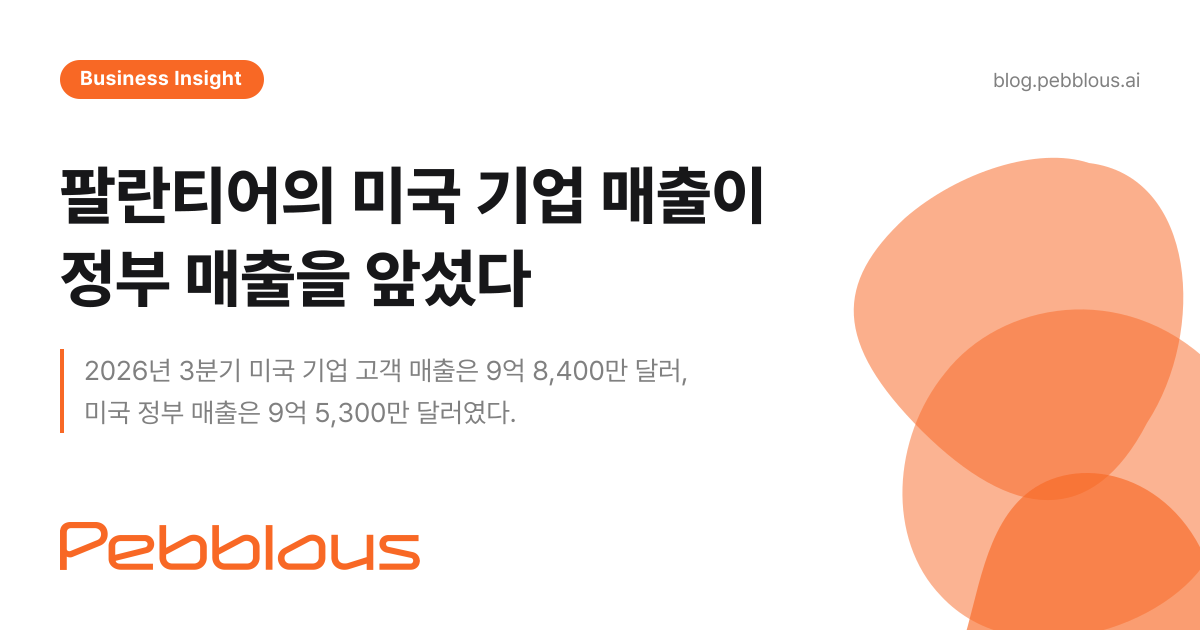
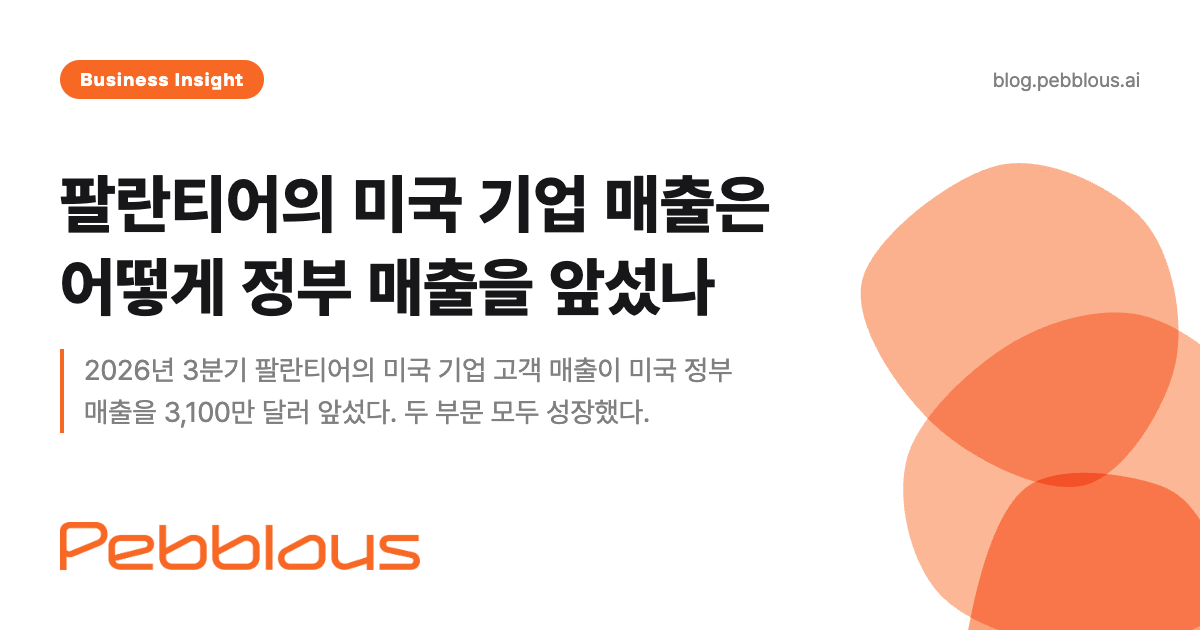
fix(palantir-ko): 화면·목록·공유 카드 제목을 지정값으로 되돌리고 설명의 '읽는다'를 고침
- mainTitle·og:title·twitter:title·사이드카 title = 「팔란티어의 미국 기업 매출은 어떻게 정부 매출을 앞섰나」
  (f3a5bcd74 가 과거형 종결「…앞섰다」로 바꾼 것을 지정값으로 복귀)
- meta description·og:description·사이드카 description 을 핵심 문장으로 교체('읽는다' 제거)
- OG 이미지 재생성(1200×630, 새 제목)
- 부제·pageTitle·<title>·본문(6장 포함)은 그대로

diff --git a/project/BizReport/palantir-analysis-2026/ko/index.html b/project/BizReport/palantir-analysis-2026/ko/index.html
@@ -14,15 +14,15 @@
     <meta http-equiv="content-language" content="ko">
 
     <!-- SEO Meta Tags -->
-    <meta name="description" content="2026년 3분기 팔란티어의 미국 기업 고객 매출은 9억 8,400만 달러, 미국 정부 매출은 9억 5,300만 달러다. 두 부문 모두 자랐고 미국이 분기 전체 매출의 84%를 차지했다. 매출과 체결 TCV의 지표 정의 차이, 정부 부문의 해자, 창신 제휴까지 페블러스 관점에서 읽는다.">
+    <meta name="description" content="2026년 3분기 팔란티어의 미국 기업 고객 매출이 미국 정부 매출을 3,100만 달러 앞섰다. 두 부문 모두 성장했다. 계약 총액과 매출의 차이, 창신 제휴가 한국 제조업에 주는 시사점을 짚었다.">
     <meta name="keywords" content="팔란티어, Palantir, PLTR, AIP, AI Platform, 운영 AI, Operational AI, AI 주권, Sovereign AI, 온톨로지, Ontology, Alex Karp, AIP 부트캠프, AgentCamp, 정부 AI, 엔터프라이즈 AI, DataClinic, 데이터클리닉, 페블러스, Pebblous, Rule of 40, NRR, 기업분석, 창신, Changshin">
     <meta name="robots" content="index, follow">
 
     <!-- Open Graph / Facebook -->
     <meta property="og:type" content="article">
     <meta property="og:url" content="https://blog.pebblous.ai/project/BizReport/palantir-analysis-2026/ko/">
-    <meta property="og:title" content="팔란티어의 미국 기업 매출이 정부 매출을 앞섰다">
-    <meta property="og:description" content="2026년 3분기 팔란티어의 미국 기업 고객 매출 9억 8,400만 달러와 미국 정부 매출 9억 5,300만 달러를 나란히 놓고 읽는다. 두 부문 모두 자랐다.">
+    <meta property="og:title" content="팔란티어의 미국 기업 매출은 어떻게 정부 매출을 앞섰나">
+    <meta property="og:description" content="2026년 3분기 팔란티어의 미국 기업 고객 매출이 미국 정부 매출을 3,100만 달러 앞섰다. 두 부문 모두 성장했다. 계약 총액과 매출의 차이, 창신 제휴가 한국 제조업에 주는 시사점을 짚었다.">
     <meta property="og:image" content="https://blog.pebblous.ai/project/BizReport/palantir-analysis-2026/ko/image/index.png">
     <meta property="og:image:width" content="1200">
     <meta property="og:image:height" content="630">
@@ -35,7 +35,7 @@
     <meta name="twitter:site" content="@pebblous_official">
     <meta name="twitter:creator" content="@pebblous_official">
     <meta name="twitter:url" content="https://blog.pebblous.ai/project/BizReport/palantir-analysis-2026/ko/">
-    <meta name="twitter:title" content="팔란티어의 미국 기업 매출이 정부 매출을 앞섰다">
+    <meta name="twitter:title" content="팔란티어의 미국 기업 매출은 어떻게 정부 매출을 앞섰나">
     <meta name="twitter:description" content="2026년 3분기 팔란티어의 미국 기업 고객 매출 9억 8,400만 달러, 미국 정부 매출 9억 5,300만 달러. 두 부문 모두 자랐고, 체결 TCV 6%는 매출과 다른 지표다.">
     <meta name="twitter:image" content="https://blog.pebblous.ai/project/BizReport/palantir-analysis-2026/ko/image/index.png">
     <meta name="twitter:image:alt" content="비즈 인사이트: 팔란티어 기업 분석 - 페블러스">
@@ -812,7 +812,7 @@
     <script src="/scripts/common-utils.js?v=c6e7f730"></script>
     <script>
         PebblousPage.init({
-            mainTitle: "팔란티어의 미국 기업 매출이 정부 매출을 앞섰다",
+            mainTitle: "팔란티어의 미국 기업 매출은 어떻게 정부 매출을 앞섰나",
             subtitle: "2026년 3분기 팔란티어의 미국 기업 고객 매출은 9억 8,400만 달러로 미국 정부 매출 9억 5,300만 달러를 앞섰다",
             pageTitle: "팔란티어 2026년 3분기 실적: 미국 기업·정부 매출과 창신 제휴 | 페블러스",
             category: "project",
